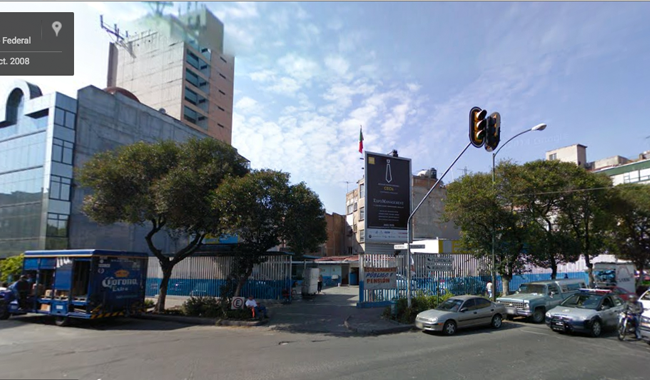
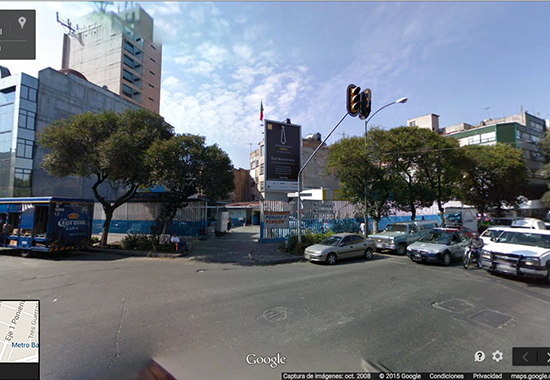
content
upload

diff --git a/poyectogsm.html b/poyectogsm.html
@@ -68,7 +68,7 @@
 
 <div id="renovacion">
 
-  <h1>Renovación<h2>
+  <h1>Renovación</h1>
 
   <div id="ex">
     <div id="ex1">
@@ -93,12 +93,36 @@
     </div>
   </div>
 
+
 <div id="ex">
     <div id="ex2">
       <table> 
-        <tr>  <th>Transformación:</th><td>Renovación alta</td>  </tr>
-        <tr>  <th>Dirección:</th><td>Barcelona #24</td> </tr>
-        <tr>  <th>Foto inicial:</th><td>2008</td>   <th>Foto final:</th><td>2014</td> </tr>
+        <tr>  <th>Transformación:</th><td>Renovación media</td>  </tr>
+        <tr>  <th>Dirección:</th><td>Roma #14</td> </tr>
+        <tr>  <th>Foto inicial:</th><td>2009</td>   <th>Foto final:</th><td>2014</td> </tr>
+      </table>
+    </div>
+    <div id="texto-derecha">
+      <h7>Renovación de:</h7>
+      <table> 
+        <tr>  <th>Espacio Público</th><td>ausente</td>  </tr>
+        <tr>  <th>Movilidad</th><td>ausente</td> </tr>
+        <tr>  <th>Nuevas construcciones para la clase alta</th><td>ausente</td>  </tr>
+        <tr>  <th>Incremento en la altura del inmueble</th><td>ausente</td>  </tr>
+        <tr>  <th>Presencia de dispositivos de seguridad</th><td>ausente</td>  </tr>
+        <tr>  <th>Signos de presencia de alguna cultura extranjera:</th><td>presente</td>  </tr>
+        <tr>  <th>Embellecimiento de la fachada:</th><td>presente</td>  </tr>
+        <tr>  <th>Cambio de uso de suelo:</th><td>presente</td>  </tr>
+      </table>
+    </div>
+  </div>
+
+  <div id="ex">
+    <div id="ex3">
+      <table> 
+        <tr>  <th>Transformación:</th><td>Renovación ligera</td>  </tr>
+        <tr>  <th>Dirección:</th><td>Lucerna #72</td> </tr>
+        <tr>  <th>Foto inicial:</th><td>2011</td>   <th>Foto final:</th><td>2015</td> </tr>
       </table>
     </div>
     <div id="texto-derecha">
@@ -106,12 +130,12 @@
       <table> 
         <tr>  <th>Espacio Público</th><td>presente</td>  </tr>
         <tr>  <th>Movilidad</th><td>presente</td> </tr>
-        <tr>  <th>Nuevas construcciones para la clase alta</th><td>presente</td>  </tr>
-        <tr>  <th>Incremento en la altura del inmueble</th><td>presente</td>  </tr>
-        <tr>  <th>Presencia de dispositivos de seguridad</th><td>presente</td>  </tr>
+        <tr>  <th>Nuevas construcciones para la clase alta</th><td>ausente</td>  </tr>
+        <tr>  <th>Incremento en la altura del inmueble</th><td>ausente</td>  </tr>
+        <tr>  <th>Presencia de dispositivos de seguridad</th><td>ausente</td>  </tr>
         <tr>  <th>Signos de presencia de alguna cultura extranjera:</th><td>ausente</td>  </tr>
         <tr>  <th>Embellecimiento de la fachada:</th><td>presente</td>  </tr>
-        <tr>  <th>Cambio de uso de suelo:</th><td>presente</td>  </tr>
+        <tr>  <th>Cambio de uso de suelo:</th><td>ausente</td>  </tr>
       </table>
     </div>
   </div>
@@ -121,32 +145,9 @@
 
 <div id="deterioro">
 
- <h1>Deterioro<h2>
+ <h1>Deterioro</h1>
 
   <div id="ex">
-    <div id="ex3">
-      <table> 
-        <tr>  <th>Transformación:</th><td>Renovación alta</td>  </tr>
-        <tr>  <th>Dirección:</th><td>Barcelona #24</td> </tr>
-        <tr>  <th>Foto inicial:</th><td>2008</td>   <th>Foto final:</th><td>2014</td> </tr>
-      </table>
-    </div>
-    <div id="texto-derecha">
-      <h7>Renovación de:</h7>
-      <table> 
-        <tr>  <th>Espacio Público</th><td>presente</td>  </tr>
-        <tr>  <th>Movilidad</th><td>presente</td> </tr>
-        <tr>  <th>Nuevas construcciones para la clase alta</th><td>presente</td>  </tr>
-        <tr>  <th>Incremento en la altura del inmueble</th><td>presente</td>  </tr>
-        <tr>  <th>Presencia de dispositivos de seguridad</th><td>presente</td>  </tr>
-        <tr>  <th>Signos de presencia de alguna cultura extranjera:</th><td>ausente</td>  </tr>
-        <tr>  <th>Embellecimiento de la fachada:</th><td>presente</td>  </tr>
-        <tr>  <th>Cambio de uso de suelo:</th><td>presente</td>  </tr>
-      </table>
-    </div>
-  </div>
-
-    <div id="ex">
     <div id="ex4">
       <table> 
         <tr>  <th>Transformación:</th><td>Renovación alta</td>  </tr>
@@ -169,13 +170,35 @@
     </div>
   </div>
 
+    <div id="ex">
+    <div id="ex5">
+      <table> 
+        <tr>  <th>Transformación:</th><td>Renovación alta</td>  </tr>
+        <tr>  <th>Dirección:</th><td>Barcelona #24</td> </tr>
+        <tr>  <th>Foto inicial:</th><td>2008</td>   <th>Foto final:</th><td>2014</td> </tr>
+      </table>
+    </div>
+    <div id="texto-derecha">
+     <h7>Renovación de:</h7>
+      <table> 
+        <tr>  <th>Espacio Público</th><td>presente</td>  </tr>
+        <tr>  <th>Movilidad</th><td>presente</td> </tr>
+        <tr>  <th>Nuevas construcciones para la clase alta</th><td>presente</td>  </tr>
+        <tr>  <th>Incremento en la altura del inmueble</th><td>presente</td>  </tr>
+        <tr>  <th>Presencia de dispositivos de seguridad</th><td>presente</td>  </tr>
+        <tr>  <th>Signos de presencia de alguna cultura extranjera:</th><td>ausente</td>  </tr>
+        <tr>  <th>Embellecimiento de la fachada:</th><td>presente</td>  </tr>
+        <tr>  <th>Cambio de uso de suelo:</th><td>presente</td>  </tr>
+      </table>
+    </div>
+  </div>
 
 <!--this closes deterioro-->
 </div>
 
 <div id="mapp">
 
-<h3>mapa de transformación de lotes</h3>
+<h1>mapa de transformación de lotes</h1>
  <iframe width="100%" height="620" frameborder="0" src="https://flockmx.cartodb.com/viz/7ed2dcd2-946f-11e5-8a7a-0ea31932ec1d/embed_map" allowfullscreen webkitallowfullscreen mozallowfullscreen oallowfullscreen msallowfullscreen></iframe>
 
 <img class= "image" src="images/grafica.png" alt="HTML5 Icon" style="width:100%; height:630px;"/>
@@ -188,7 +211,7 @@
     $(document).ready(function(){
 
       $('#ex1').diffWidget({
-        'width': '600',
+        'width': '550px',
         'height': '380px',
         'top': 'images/bcn_1.png',
         'bottom': 'images/bcn_2.png',
@@ -196,18 +219,18 @@
       });
 
       $('#ex2').diffWidget({
-      'width': '600px',
+      'width': '550px',
         'height': '380px',
-        'top': 'images/bcn_1.png',
-        'bottom': 'images/bcn_2.png',
+        'top': 'images/bar_1.png',
+        'bottom': 'images/bar_2.png',
         'position': '100%'
       });
 
       $('#ex3').diffWidget({
-      'width': '600px',
+      'width': '550px',
         'height': '380px',
-        'top': 'images/bcn_1.png',
-        'bottom': 'images/bcn_2.png',
+        'top': 'images/pape_1.png',
+        'bottom': 'images/pape_2.png',
         'position': '100%'
       });
 

diff --git a/style.css b/style.css
@@ -14,7 +14,7 @@
 .diffWidget .first {
   position: relative;
   width: 100%;
-  height: 100%;
+  height: 380px;
   z-index: 3;
   top: 0;
   left: 0;
@@ -220,17 +220,7 @@ h3 {
 }
 
 
-#renovacion h1{
-color: white;
-text-align: center;
-font-size: 1.5rem;
-letter-spacing: .5rem;
-margin: 0px 0px -10px 0px;
-height: 30px;
-background-color: rgba(217, 176, 54, .7);
-border-radius: 10px 10px, 0 , 0;
 
-}
 
 #texto-derecha table {
   color: white;
@@ -296,12 +286,36 @@ text-align: left;
 text-align: center;
 font-size: 1.5rem;
 letter-spacing: .5rem;
-margin: 0px 0px -10px 0px;
+margin: 0px 0px 0px 0px;
 height: 30px;
 background-color: rgba(47, 128, 197, .7);
 border-radius: 10px 10px, 0 , 0;
 }
 
+#mapp h1{
+  color: white;
+text-align: center;
+font-size: 1.5rem;
+letter-spacing: .1rem;
+margin: 10px 0px 0px 0px;
+height: 30px;
+width: 100%;
+background-color: rgba(47, 128, 197, .7);
+border-radius: 10px 10px, 0 , 0;
+}
+
+
+#renovacion h1{
+color: white;
+text-align: center;
+font-size: 1.5rem;
+letter-spacing: .5rem;
+margin: 0px 0px 0px 0px;
+height: 30px;
+background-color: rgba(217, 176, 54, .7);
+border-radius: 10px 10px, 0 , 0;
+
+}
 
 
 
@@ -333,10 +347,12 @@ border-radius: 10px 10px, 0 , 0;
       width: 200px;
       padding: 5px;
       margin-top: 80px;
+      margin-right: 20px;
+      margin-left: -5px;
       border-radius: 3px;
-      height: 370px;
+      height: 360px;
       border: 1px solid rgba(20, 20, 20, 1) ;
-      border-style: dotted;
+      border-style: dotted;x
       position: center;
   
 }
